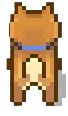
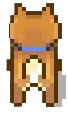
dog is appearing but bugged

diff --git a/dog.py b/dog.py
@@ -1,0 +1,51 @@
+from images import dog
+from config import *
+import pygame
+from os import walk  # allows us to walk through a folder
+from os.path import join
+
+
+class Dog(pygame.sprite.Sprite):
+    def __init__(self, player):
+        super().__init__()
+        self.load_images()
+        self.state, self.frame_index = "down", 0
+        self.image = pygame.Surface(dog_size)  # we use surface to display any image or draw
+        # area where the player will be drawn
+        self.rect = self.image.get_rect()
+
+        # setting the dog next to the player when it first appears.
+        self.rect.x = player.rect.x - 50
+        self.rect.y = player.rect.y
+
+        self.player = player
+
+        self.bought = False
+
+    def load_images(self):
+        self.frames = {"up": [], "down": [], "left": [], "right": [],
+                       "idle_down": [], "idle_up": [], "idle_left": [], "idle_right": []}
+        for state in self.frames.keys():
+            for folder_path, sub_folders, file_names in walk(join("images", "dog", state)):
+                if file_names:
+                    for file_name in file_names:
+                        full_path = join(folder_path, file_name)
+                        print(f"Attempting to load image: {full_path}")  # Debugging statement
+                        if full_path.lower().endswith(('.png', '.jpg', '.jpeg', '.bmp')):
+                            try:
+                                surf = pygame.image.load(full_path).convert_alpha()
+                                scaled_surf = pygame.transform.scale(surf, player_size)
+                                self.frames[state].append(scaled_surf)
+                                print(f"Successfully loaded image: {full_path}")  # Debugging statement
+                            except pygame.error as e:
+                                print(f"Unable to load image {full_path}: {e}")
+                        else:
+                            print(f"Unsupported image format: {full_path}")
+
+    def animate(self):
+        self.frame_index += 0.08  # increments frame index at a fixed fps (animation speed)
+        self.image = self.frames[self.state][int(self.frame_index) % len(self.frames[self.state])]
+
+    def follow_player(self):
+        self.rect.x = self.player.rect.x - 50
+        self.rect.y = self.player.rect.y

diff --git a/game.py b/game.py
@@ -1,3 +1,4 @@
+from dog import Dog
 from background import background_setup
 import pygame
 
@@ -13,6 +14,7 @@ from store import inside_store
 from weapon import Weapon
 from old_lady_house import old_lady_house_area
 from weapon import *
+
 
 def choose_character():
     screen.blit(choose_character_image, (0, 0))
@@ -86,11 +88,12 @@ def game_loop():
     current_state = "main"
     # creating the player for the game, it is only defined once
     player = Player()
+    dog = Dog(player)
 
     # endeless game loop
     while True:
         if current_state == "main":
-            current_state = execute_game(player)
+            current_state = execute_game(player, dog)
         elif current_state == "cave":
             current_state = cave_area(player)
         elif current_state == "home":
@@ -102,7 +105,7 @@ def game_loop():
 
 
 
-def execute_game(player):
+def execute_game(player, dog):
     # SETUP
     # using the clock to control the time frame.
     clock = pygame.time.Clock()
@@ -122,6 +125,11 @@ def execute_game(player):
     player_group = pygame.sprite.Group()
     # adding the player to the group
     player_group.add(player)
+
+    # adding only the dog to the group when its bought
+    if player.dog.bought:
+        player_group.add(player.dog)
+
     # creating an empty bullet group that will be given as input to the player.shoot() method
     bullets = pygame.sprite.Group()
     # creating an enemy group
@@ -184,8 +192,10 @@ def execute_game(player):
         for sprite in sorted(objects_group, key=lambda sprite_obj: sprite_obj.rect.centery):
             display.blit(sprite.image, sprite.rect.topleft + camera_offset)  # camera offset added for movement
 
-        # updating the player group
+        # updating the player group and dog
         player_group.update(collision_sprites, display)
+        if player.dog.bought:
+            player.dog.follow_player()
 
         # checking if the player moved off-screen from the right to the left area
         # if player.rect.right >= width:

diff --git a/player.py b/player.py
@@ -5,6 +5,7 @@ from bullet import Bullet
 from os.path import join
 from os import walk  # allows us to walk through a folder
 import config
+from dog import Dog
 
 
 # I had to import the module itself here in import config, so we could actually choose a character, I tried for a
@@ -36,6 +37,9 @@ class Player(pygame.sprite.Sprite):  # sprites are moving things in pygame
         self.rect.center = (1150, 150)
         # making the hitbox smaller than the player image
         self.hitbox_rect = self.rect.inflate(-10, -15)
+
+        # being able to receive a dog:
+        self.dog = Dog(self)
 
         # GAMEPLAY VARIABLES
         self.just_left_cave = False
@@ -199,6 +203,9 @@ class Player(pygame.sprite.Sprite):  # sprites are moving things in pygame
             self.gold -= price
             self.inventory[item_name] += 1
             print(f"bought {item_name}: amount {self.inventory[item_name]} money: {self.gold}")
+            if item_name == 'dog' and self.dog is None:
+                self.dog = Dog(self)
+                self.dog.bought = True
         else:
             print(f"gold is not enough. gold: {self.gold}")  # todo: add here a screen saying not enough money
 

diff --git a/store.py b/store.py
@@ -111,6 +111,12 @@ def shop_menu(player):
     shopping = True
     custom_font = pygame.font.Font("fonts/Minecraft.ttf", 20)
 
+    # creating my player group:
+    # creating an empty group for the player (that was received as input)
+    player_group = pygame.sprite.Group()
+    # adding the player to the group
+    player_group.add(player)
+
     ################ TESTING THE TILES ###################
     store_screen = pygame.display.set_mode(resolution)
     display = pygame.Surface((width // 2, height // 2))
@@ -172,6 +178,10 @@ def shop_menu(player):
                         print("Can only have one dog")
                     else:
                         player.buy_item('dog')
+                        if not player.dog.bought:
+                            player.dog.bought = True
+                            player_group.add(player.dog)
+
                 # SOUP BUTTON
                 if 499 <= mouse_pos[0] <= 600 and 503 <= mouse_pos[1] <= 546:
                     player.buy_item('soup')

diff --git a/config.py b/config.py
@@ -45,6 +45,7 @@ old_lady_speech = [old_lady_1, old_lady_2, old_lady_3]
 
 # SIZES
 player_size = (40, 40)
+dog_size = (30, 30)
 enemy_size = (80, 80)
 bullet_size = 10
 tile_size = 16
